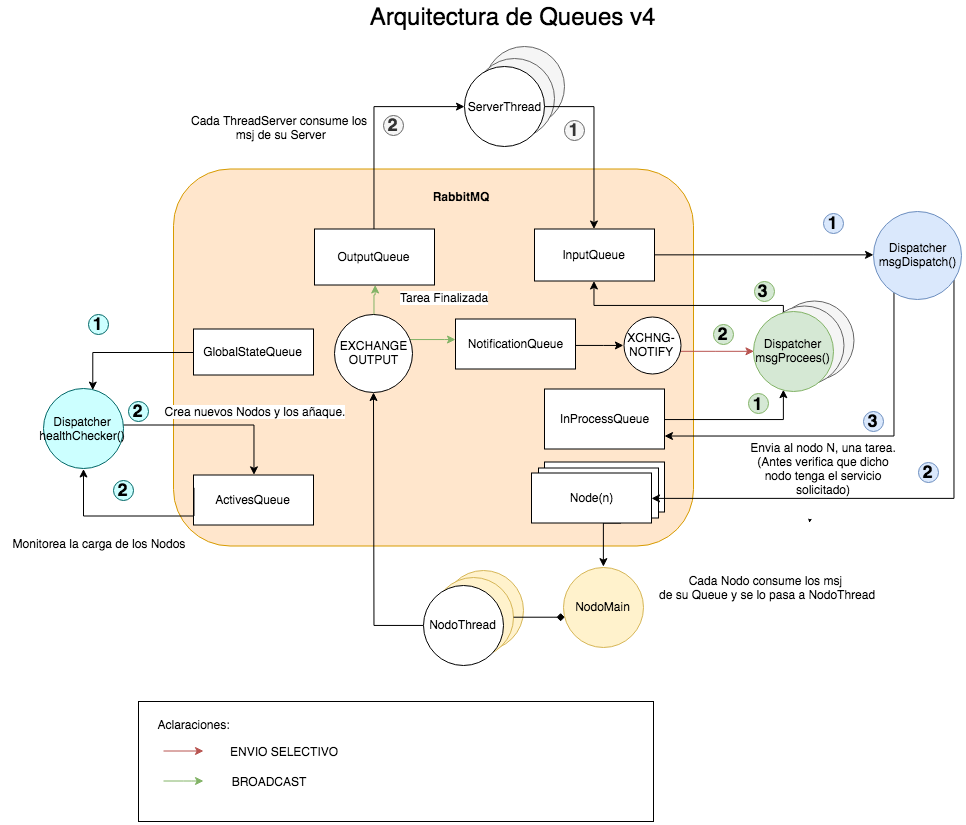
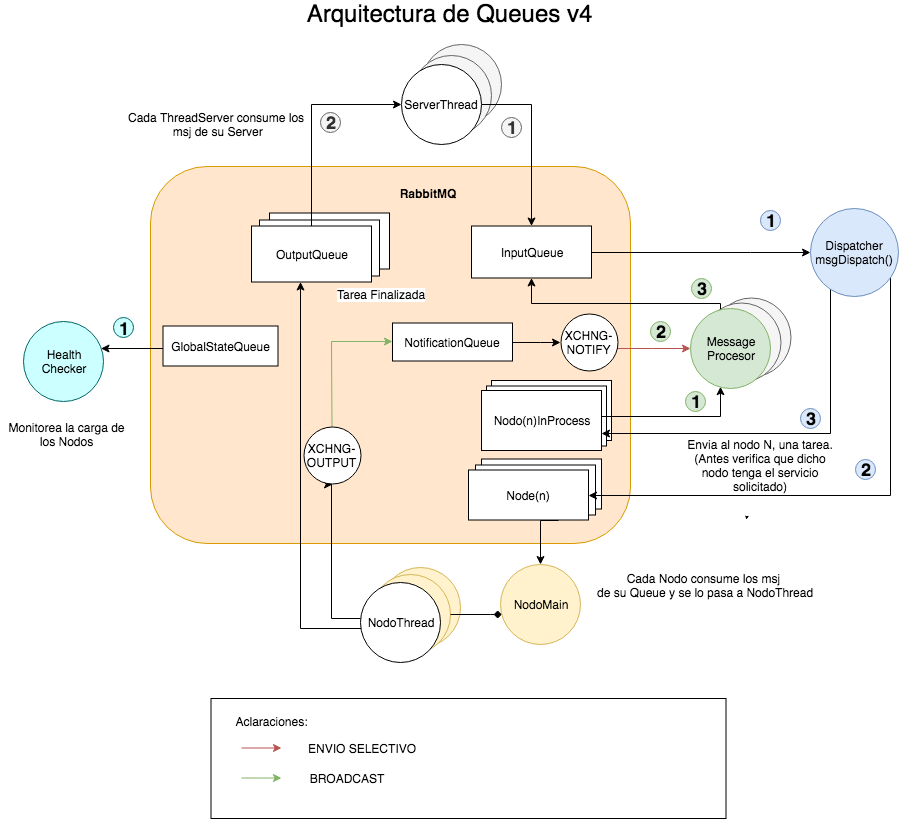
Cambios en el README. Actualiza diagrama.

Changed region(s): [[0.0, 0.0, 1.0, 1.0], [0.8409, 0.2442, 0.8721, 0.3053], [0.7786, 0.9768, 0.8098, 1.0]]

diff --git a/Practico2/src/main/java/punto3/Dispatcher.java b/Practico2/src/main/java/punto3/Dispatcher.java
@@ -41,7 +41,6 @@ public class Dispatcher {
 	public String outputQueueName = "outputQueue";
 	public String notificationQueueName = "notificationQueue";
 	public String GlobalStateQueueName = "GlobalStateQueue";
-	public String activesQueueName = "activeQueue";
 	public String inprocessQueueName = "inProcessQueue";
 	public String ip;
 	private Map<String, Thread> threads;
@@ -51,7 +50,6 @@ public class Dispatcher {
 	private ArrayList<Node> nodosActivos;
 	public static final String EXCHANGE_OUTPUT = "XCHNG-OUT";
 	public static final String EXCHANGE_NOTIFY = "XCHNG-NOTIFY";
-	public static final String EXCHANGE_GLOBAL_LOAD = "XCHNG-GLOBAL_LOAD";
 	// 1000 trys in a interval of 10ms => 10 seconds per node
 	public static final int RETRY_SLEEP_TIME = 10;
 	public static final int MAX_RETRIES_IN_NODE = 1000;
@@ -101,11 +99,9 @@ public class Dispatcher {
 			this.queueConnection = this.connectionFactory.newConnection();
 			this.queueChannel = this.queueConnection.createChannel();
 			this.queueChannel.queueDeclare(this.inputQueueName, true, false, false, null);
-			this.queueChannel.queueDeclare(this.outputQueueName, true, false, false, null);
 			this.queueChannel.queueDeclare(this.GlobalStateQueueName, true, false, false, null);
 			this.queueChannel.queueDeclare(this.notificationQueueName, true, false, false, null);
 			this.queueChannel.queueDeclare(this.inprocessQueueName, true, false, false, null);
-			this.queueChannel.queueDeclare(this.activesQueueName, true, false, false, null);
 			this.queueChannel.exchangeDeclare(EXCHANGE_NOTIFY, BuiltinExchangeType.DIRECT);
 		} catch (IOException e) {
 			e.printStackTrace();
@@ -148,7 +144,6 @@ public class Dispatcher {
 			this.queueChannel.queuePurge(this.inputQueueName);
 			this.queueChannel.queuePurge(this.GlobalStateQueueName);
 			this.queueChannel.queuePurge(this.notificationQueueName);
-			this.queueChannel.queuePurge(this.activesQueueName);
 			for (Node node : nodosActivos) {
 				this.queueChannel.queuePurge(node.getName());
 			}
@@ -495,10 +490,7 @@ public class Dispatcher {
 			// Init RabbitMQ Thread which listens to InputQueue
 			this.queueChannel.basicConsume(inputQueueName, true, msgDispatch, consumerTag -> {});
 			// Init RabbitMQ Thread which make sure that the message is attend it.
-			//this.queueChannel.basicConsume(inprocessQueueName, true, msgProcess, consumerTag -> {});
 			initMsgProcess();
-			// Listens node's activesQueue
-			this.queueChannel.basicConsume(activesQueueName, true, ActiveNodeDeliverCallback, consumerTag -> {});
 			// Init RabbitMQ Thread that listens and updates to ActiveQueue
 			this.healthChecker();
 		} catch (IOException e) {

diff --git a/Practico2/README.md b/Practico2/README.md
@@ -1,4 +1,4 @@
-
+
 # Punto3 - Balanceador de Carga:
 
 ### Indice
@@ -32,11 +32,9 @@ Se diseño la siguiente arquitectura de colas:
 
 1. **ServerThread**, escucha peticiones de clientes. Es alimentado de dos Queues (Input / Output).
 
-- **Dispatcher**
+- **msgDispatch**, hilo encargado de atender un msg de la input Queue y enviarlo a Nodo para que atienda la solicitud.
 
-  - **msgDispatch**, hilo encargado de atender un msg de la input Queue y enviarlo a Nodo para que atienda la solicitud.
-
-  - **msgProcess**, hilo/s encargado/s de atender un msg de la inprocess Queue y esperar la confirmacion de la tarea en la notification Queue. En el caso de que se no se reciba la confirmacion se reenvia el msj a la cola de input y se marca el nodo en estado *DEAD*.
+- **messageProcessor**, hilo/s encargado/s de atender un msg de la inprocess Queue y esperar la confirmacion de la tarea en la notification Queue. En el caso de que se no se reciba la confirmacion se reenvia el msj a la cola de input y se elimina el nodo de la lista de nodos activos.
 
 - **healthChecker**, hilo encargado de monitorear el estado globlal del sistema y realizar la correspondiente acción para volver a estado normal la red.
 
@@ -57,7 +55,7 @@ Se diseño la siguiente arquitectura de colas:
 
 **InputQueue**, es aquella queue que recibe peticiones. El ServerMain es su productor y el Dispatcher su consumidor.
 
-**processQueue (n)**, es aquella queue que recibe peticiones ya destinadas a un Nodo en particular. El Dispatcher es su productor y el Nodo su consumidor.
+**processQueue (n)**, es aquella queue que recibe peticiones ya destinadas a un Nodo en particular. El msgProcessor es su productor y el Nodo su consumidor.
 
 **OutputQueue (n)**, es aquella queue en donde se escriben los resultados. El Nodo es el productor y el ServerMain es su consumidor.
 
@@ -70,14 +68,14 @@ Se diseño la siguiente arquitectura de colas:
 1. Instalar RabbitMQ ([Official Page](rabbitmq.com))
 
 - Instalar dependencias de java
-```
+```sh
 mvn install
 ```
 
 ### Build & Run
 
 1. Iniciar servicio de RabbitMQ
-```
+```sh
 rabbitmq-server start
 ```
 
@@ -92,7 +90,8 @@ ClientGenerator
 ### Scripts
 
 Generador de peticiones directo sobre el RabbitMQ:
-```
+
+```sh
 nano ClientGenerator.py
 # EDITAR los parametros USER y PASS con sus credenciales
 python3 ClientGenerator.py
@@ -104,9 +103,10 @@ python3 ClientGenerator.py
 
 - [ ] Revisar getNextNodeSafe() **[DONE]**
 - [ ] Corregir creacion dinamica de Nodos. **[DONE]**
-- [ ] Hacer que msgProcess() sea multi-Thread. (Single-Thread ocasiona problemas de lectura cuando hay mucha carga).
+- [ ] Hacer que msgProcess() sea multi-Thread. (Single-Thread ocasiona problemas de lectura cuando hay mucha carga). **[DONE]**
 
 #### TO-DO:
 
 - [ ] Agregar script que tire nodos al azar.
 - [ ] Obtener configuracion de nodos de un archivo externo (Sacar Nodos harcodeados del Dispatcher).
+- [ ] Persistir Lista de Nodos Activos cada cierto timepo x (Para recurperarse en caso de caida del dispatcher).
